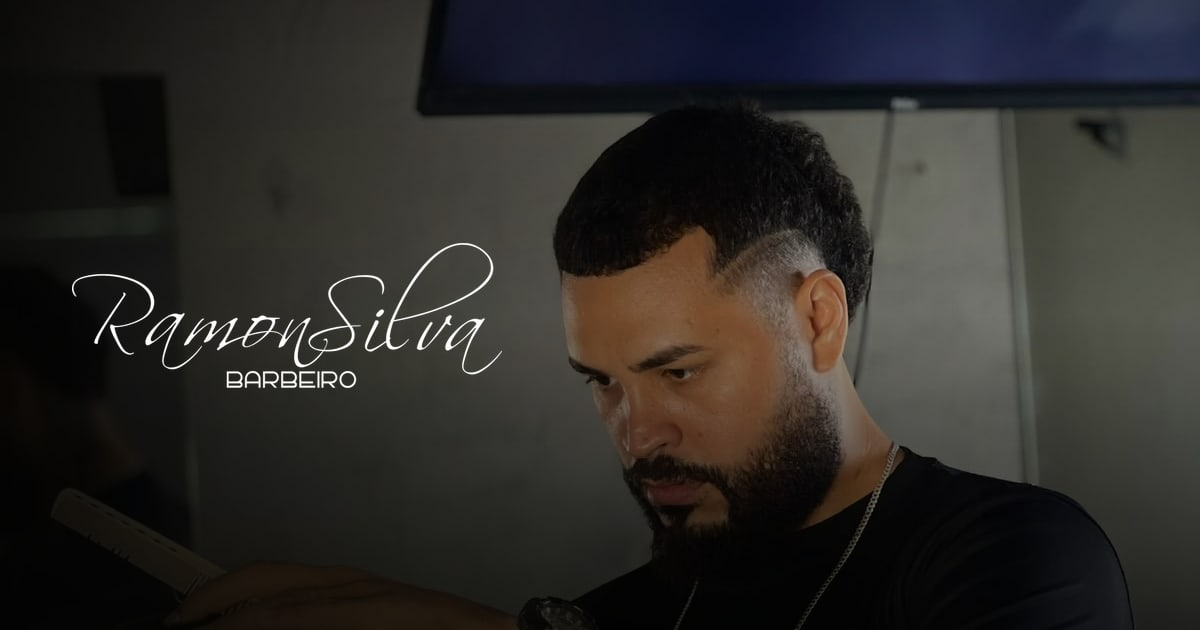
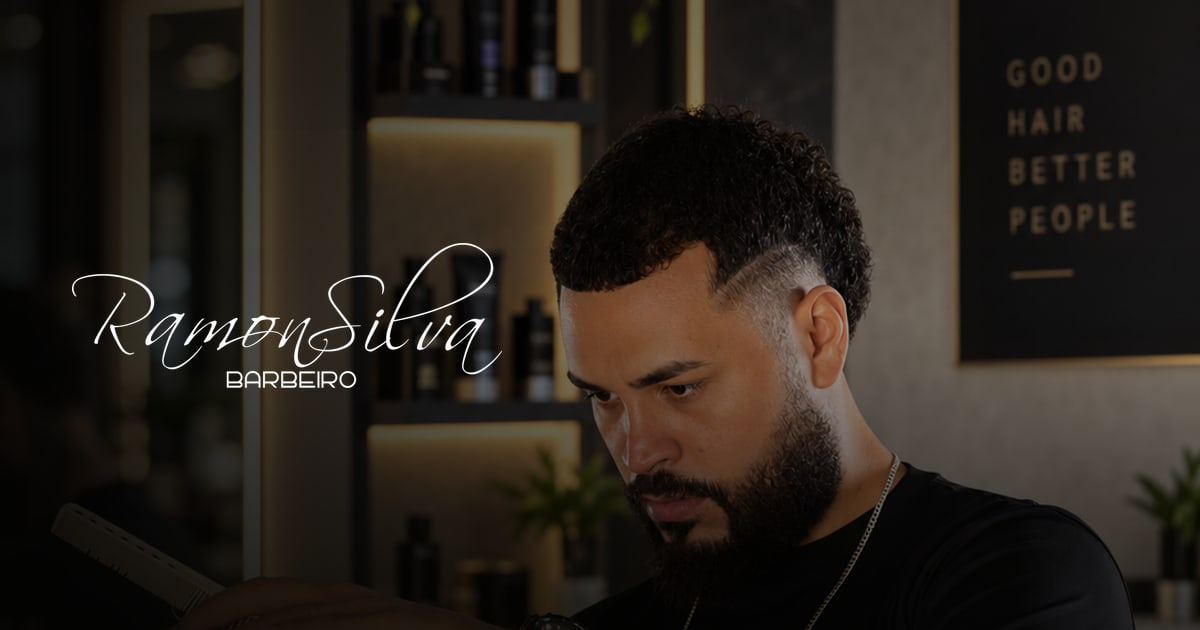
Converte as fotos para WebP, resolve o dominio pelo ambiente e troca a foto do evento
As fotos somavam 4,76 MB em public/. Agora os originais ficam em
assets/originais/, fora do que vai para o deploy, e só o WebP é servido:
0,77 MB no total, 84% a menos. As duas pesadas caíram sozinhas 95%
(ramonhero4k 1854 KB → 93 KB, ramonperfil 1958 KB → 87 KB).

Qualidade 80 nas fotos, que é o teto de 20% de perda; as logos vão sem perda,
porque o traço fino e a transparência sujariam num lossy.

O domínio parou de ser chumbado: vem de NEXT_PUBLIC_SITE_URL, senão do domínio
que a Vercel informa, senão localhost. Era o que faltava para o preview de
compartilhamento funcionar, já que o og:image precisa de URL absoluta.

- scripts/gerar-imagens.mjs regenera os WebP a partir dos originais
- a /evento passa a usar a ramonhero4k, como as outras páginas
- os cards de OG seguem em JPEG de propósito: Facebook e WhatsApp não
  renderizam WebP em og:image de forma confiável

diff --git a/src/app/evento/page.tsx b/src/app/evento/page.tsx
@@ -32,7 +32,7 @@ export default function EventoPage() {
       >
         <Link href="/" aria-label="Ramon Silva Barbearia — voltar ao início">
           <Image
-            src="/img/logo-white.png"
+            src="/img/logo-white.webp"
             alt="Ramon Silva Barbearia"
             width={1851}
             height={626}
@@ -55,11 +55,11 @@ export default function EventoPage() {
         {/* Foto sangrando no topo — mobile e tablet */}
         <div className="absolute inset-x-0 top-0 h-[58svh] overflow-hidden lg:hidden">
           <Image
-            src="/img/ramon-2.jpg"
-            alt="Ramon Silva demonstrando a técnica de corte"
+            src="/img/ramonhero4k.webp"
+            alt="Ramon Silva cortando cabelo na barbearia"
             fill
             priority
-            className="object-cover object-[55%_35%]"
+            className="object-cover object-[70%_50%]"
             sizes="(min-width: 1024px) 1px, 100vw"
           />
           {/* Escurece o topo para o logo e o botão continuarem legíveis */}
@@ -71,11 +71,11 @@ export default function EventoPage() {
         {/* Foto na metade direita — desktop */}
         <div className="absolute inset-y-0 right-0 hidden w-[52%] overflow-hidden lg:block">
           <Image
-            src="/img/ramon-2.jpg"
-            alt="Ramon Silva demonstrando a técnica de corte"
+            src="/img/ramonhero4k.webp"
+            alt="Ramon Silva cortando cabelo na barbearia"
             fill
             priority
-            className="object-cover object-[52%_40%]"
+            className="object-cover object-[62%_50%]"
             sizes="(min-width: 1024px) 55vw, 1px"
           />
           <div className="absolute inset-0 bg-gradient-to-r from-bg from-0% via-bg/55 via-24% to-transparent to-68%" />

diff --git a/src/data/site.ts b/src/data/site.ts
@@ -16,7 +16,25 @@ export function montarWhatsapp(mensagem: string) {
 
 export const whatsappLink = montarWhatsapp(contato.whatsappMensagem);
 
-/** Domínio final do site. Troque aqui (ou via NEXT_PUBLIC_SITE_URL no deploy)
- *  para os links de compartilhamento e o SEO apontarem para o endereço certo. */
-export const siteUrl =
-  process.env.NEXT_PUBLIC_SITE_URL ?? "https://ramonsilvabarbeiro.com.br";
+/**
+ * Domínio do site, usado só no servidor para montar o metadataBase.
+ *
+ * As imagens de compartilhamento precisam de URL absoluta: o WhatsApp e o
+ * Facebook buscam a imagem pelo servidor deles, então um domínio errado faz o
+ * preview simplesmente não aparecer. Por isso o endereço vem da hospedagem em
+ * vez de ficar chumbado aqui.
+ *
+ * Ordem: NEXT_PUBLIC_SITE_URL manda (use para o domínio próprio) → domínio de
+ * produção da Vercel → URL do deploy atual (previews) → localhost.
+ */
+function descobrirSiteUrl() {
+  const { NEXT_PUBLIC_SITE_URL, VERCEL_PROJECT_PRODUCTION_URL, VERCEL_URL } =
+    process.env;
+
+  if (NEXT_PUBLIC_SITE_URL) return NEXT_PUBLIC_SITE_URL;
+  if (VERCEL_PROJECT_PRODUCTION_URL) return `https://${VERCEL_PROJECT_PRODUCTION_URL}`;
+  if (VERCEL_URL) return `https://${VERCEL_URL}`;
+  return "http://localhost:3000";
+}
+
+export const siteUrl = descobrirSiteUrl();

diff --git a/src/data/hub.ts b/src/data/hub.ts
@@ -20,7 +20,7 @@ export const hubLinks: HubLink[] = [
     titulo: "Trabalhe na barbearia",
     descricao:
       "Estamos contratando barbeiro. Veja o perfil que procuramos e fale com a gente pelo WhatsApp.",
-    imagem: "/img/ramonhero4k.png",
+    imagem: "/img/ramonhero4k.webp",
     destaque: true,
   },
   {
@@ -29,7 +29,7 @@ export const hubLinks: HubLink[] = [
     titulo: "Curso de Barbeiro Iniciante",
     descricao:
       "16 aulas presenciais, prática em modelos reais, certificado de conclusão e suporte depois do curso.",
-    imagem: "/img/ramon-2.jpg",
+    imagem: "/img/ramon-2.webp",
   },
   {
     href: "/evento",
@@ -37,7 +37,7 @@ export const hubLinks: HubLink[] = [
     titulo: "Curso Prático de Aperfeiçoamento",
     descricao:
       "Dois cortes demonstrados pelo professor de manhã, a máquina na sua mão à tarde e certificado no fim do dia.",
-    imagem: "/img/outros-cortes2.jpeg",
+    imagem: "/img/outros-cortes2.webp",
   },
 ];
 
@@ -45,5 +45,5 @@ export const perfil = {
   nome: "Ramon Silva",
   titulo: "Barbeiro",
   bio: "Barbearia, formação e eventos em Fortaleza. Escolha abaixo o que você procura.",
-  foto: "/img/ramonhero4k.png",
+  foto: "/img/ramonhero4k.webp",
 };

diff --git a/src/app/vaga/page.tsx b/src/app/vaga/page.tsx
@@ -28,7 +28,7 @@ export default function VagaPage() {
       {/* Foto sangrando por trás de tudo — mobile e tablet */}
       <div className="absolute inset-0 lg:hidden">
         <Image
-          src="/img/ramonhero4k.png"
+          src="/img/ramonhero4k.webp"
           alt="Ramon Silva cortando cabelo na barbearia"
           fill
           priority
@@ -44,7 +44,7 @@ export default function VagaPage() {
       <div className="absolute inset-y-0 right-0 hidden w-[52%] overflow-hidden lg:block">
         <div className="absolute inset-x-0 -top-[18%] h-[136%]">
           <Image
-            src="/img/ramonhero4k.png"
+            src="/img/ramonhero4k.webp"
             alt="Ramon Silva cortando cabelo na barbearia"
             fill
             priority
@@ -63,7 +63,7 @@ export default function VagaPage() {
       >
         <Link href="/" aria-label="Ramon Silva Barbearia — voltar ao início">
           <Image
-            src="/img/logo-white.png"
+            src="/img/logo-white.webp"
             alt="Ramon Silva Barbearia"
             width={1851}
             height={626}

diff --git a/src/components/Hero.tsx b/src/components/Hero.tsx
@@ -11,7 +11,7 @@ export default function Hero() {
       <div className="absolute inset-x-0 top-0 h-[64svh] overflow-hidden lg:hidden">
         <div className="absolute inset-x-0 -top-[4%] h-[112%]">
           <Image
-            src="/img/ramonhero4k.png"
+            src="/img/ramonhero4k.webp"
             alt="Ramon Silva cortando cabelo"
             fill
             priority
@@ -30,7 +30,7 @@ export default function Hero() {
         {/* Caixa maior que o painel: aproxima o enquadramento no Ramon */}
         <div className="absolute inset-x-0 -top-[22%] h-[142%]">
           <Image
-            src="/img/ramonhero4k.png"
+            src="/img/ramonhero4k.webp"
             alt="Ramon Silva cortando cabelo"
             fill
             priority

diff --git a/src/data/curso.ts b/src/data/curso.ts
@@ -90,9 +90,9 @@ export const beneficios = [
 ];
 
 export const videos = [
-  { src: "/video/corte-1.mp4", poster: "/img/poster-1.jpg", titulo: "Pompadour moderno" },
-  { src: "/video/corte-2.mp4", poster: "/img/poster-2.jpg", titulo: "Low Fade Buzz Cut" },
-  { src: "/video/corte-3.mp4", poster: "/img/poster-3.jpg", titulo: "Low Drop Fade" },
+  { src: "/video/corte-1.mp4", poster: "/img/poster-1.webp", titulo: "Pompadour moderno" },
+  { src: "/video/corte-2.mp4", poster: "/img/poster-2.webp", titulo: "Low Fade Buzz Cut" },
+  { src: "/video/corte-3.mp4", poster: "/img/poster-3.webp", titulo: "Low Drop Fade" },
 ];
 
 export const faq = [

diff --git a/src/data/evento.ts b/src/data/evento.ts
@@ -65,8 +65,8 @@ export const evento = {
   },
 
   galeria: [
-    { src: "/img/outros-cortes2.jpeg", alt: "Side part com degradê na navalha" },
-    { src: "/img/outros-cortes.jpeg", alt: "Taper baixo finalizado na nuca" },
+    { src: "/img/outros-cortes2.webp", alt: "Side part com degradê na navalha" },
+    { src: "/img/outros-cortes.webp", alt: "Taper baixo finalizado na nuca" },
   ],
 
   ctaTitulo: "Quer garantir sua vaga?",

diff --git a/src/components/Header.tsx b/src/components/Header.tsx
@@ -35,7 +35,7 @@ export default function Header() {
       <div className="mx-auto flex max-w-7xl items-center justify-between px-5 sm:px-8">
         <Link href="/" aria-label="Ramon Silva Barbeiro — voltar ao início">
           <Image
-            src="/img/logo-white.png"
+            src="/img/logo-white.webp"
             alt="Ramon Silva Barbeiro"
             width={1851}
             height={626}

diff --git a/src/components/Professor.tsx b/src/components/Professor.tsx
@@ -10,7 +10,7 @@ export default function Professor() {
           <div className="absolute -inset-3 rounded-3xl border border-gold/30" />
           <div className="relative overflow-hidden rounded-2xl">
             <Image
-              src="/img/ramonperfil.png"
+              src="/img/ramonperfil.webp"
               alt="Ramon Silva na barbearia"
               width={1122}
               height={1402}

diff --git a/src/components/Footer.tsx b/src/components/Footer.tsx
@@ -6,7 +6,7 @@ export default function Footer() {
     <footer className="border-t border-line bg-bg">
       <div className="mx-auto flex max-w-7xl flex-col items-center gap-8 px-5 py-12 sm:px-8 md:flex-row md:justify-between">
         <Image
-          src="/img/logo-white.png"
+          src="/img/logo-white.webp"
           alt="Ramon Silva Barbeiro"
           width={1851}
           height={626}

diff --git a/src/components/Cta.tsx b/src/components/Cta.tsx
@@ -7,7 +7,7 @@ export default function Cta() {
     <section id="inscricao" className="grain relative overflow-hidden py-28 sm:py-36">
       <div className="absolute inset-0">
         <Image
-          src="/img/poster-1.jpg"
+          src="/img/poster-1.webp"
           alt=""
           fill
           className="object-cover opacity-20"

diff --git a/src/components/surreal/SurrealHub.tsx b/src/components/surreal/SurrealHub.tsx
@@ -128,7 +128,7 @@ export default function SurrealHub() {
           aria-label="Ramon Silva Barbearia"
         >
           <Image
-            src="/img/logo-white.png"
+            src="/img/logo-white.webp"
             alt="Ramon Silva Barbearia"
             width={1851}
             height={626}
